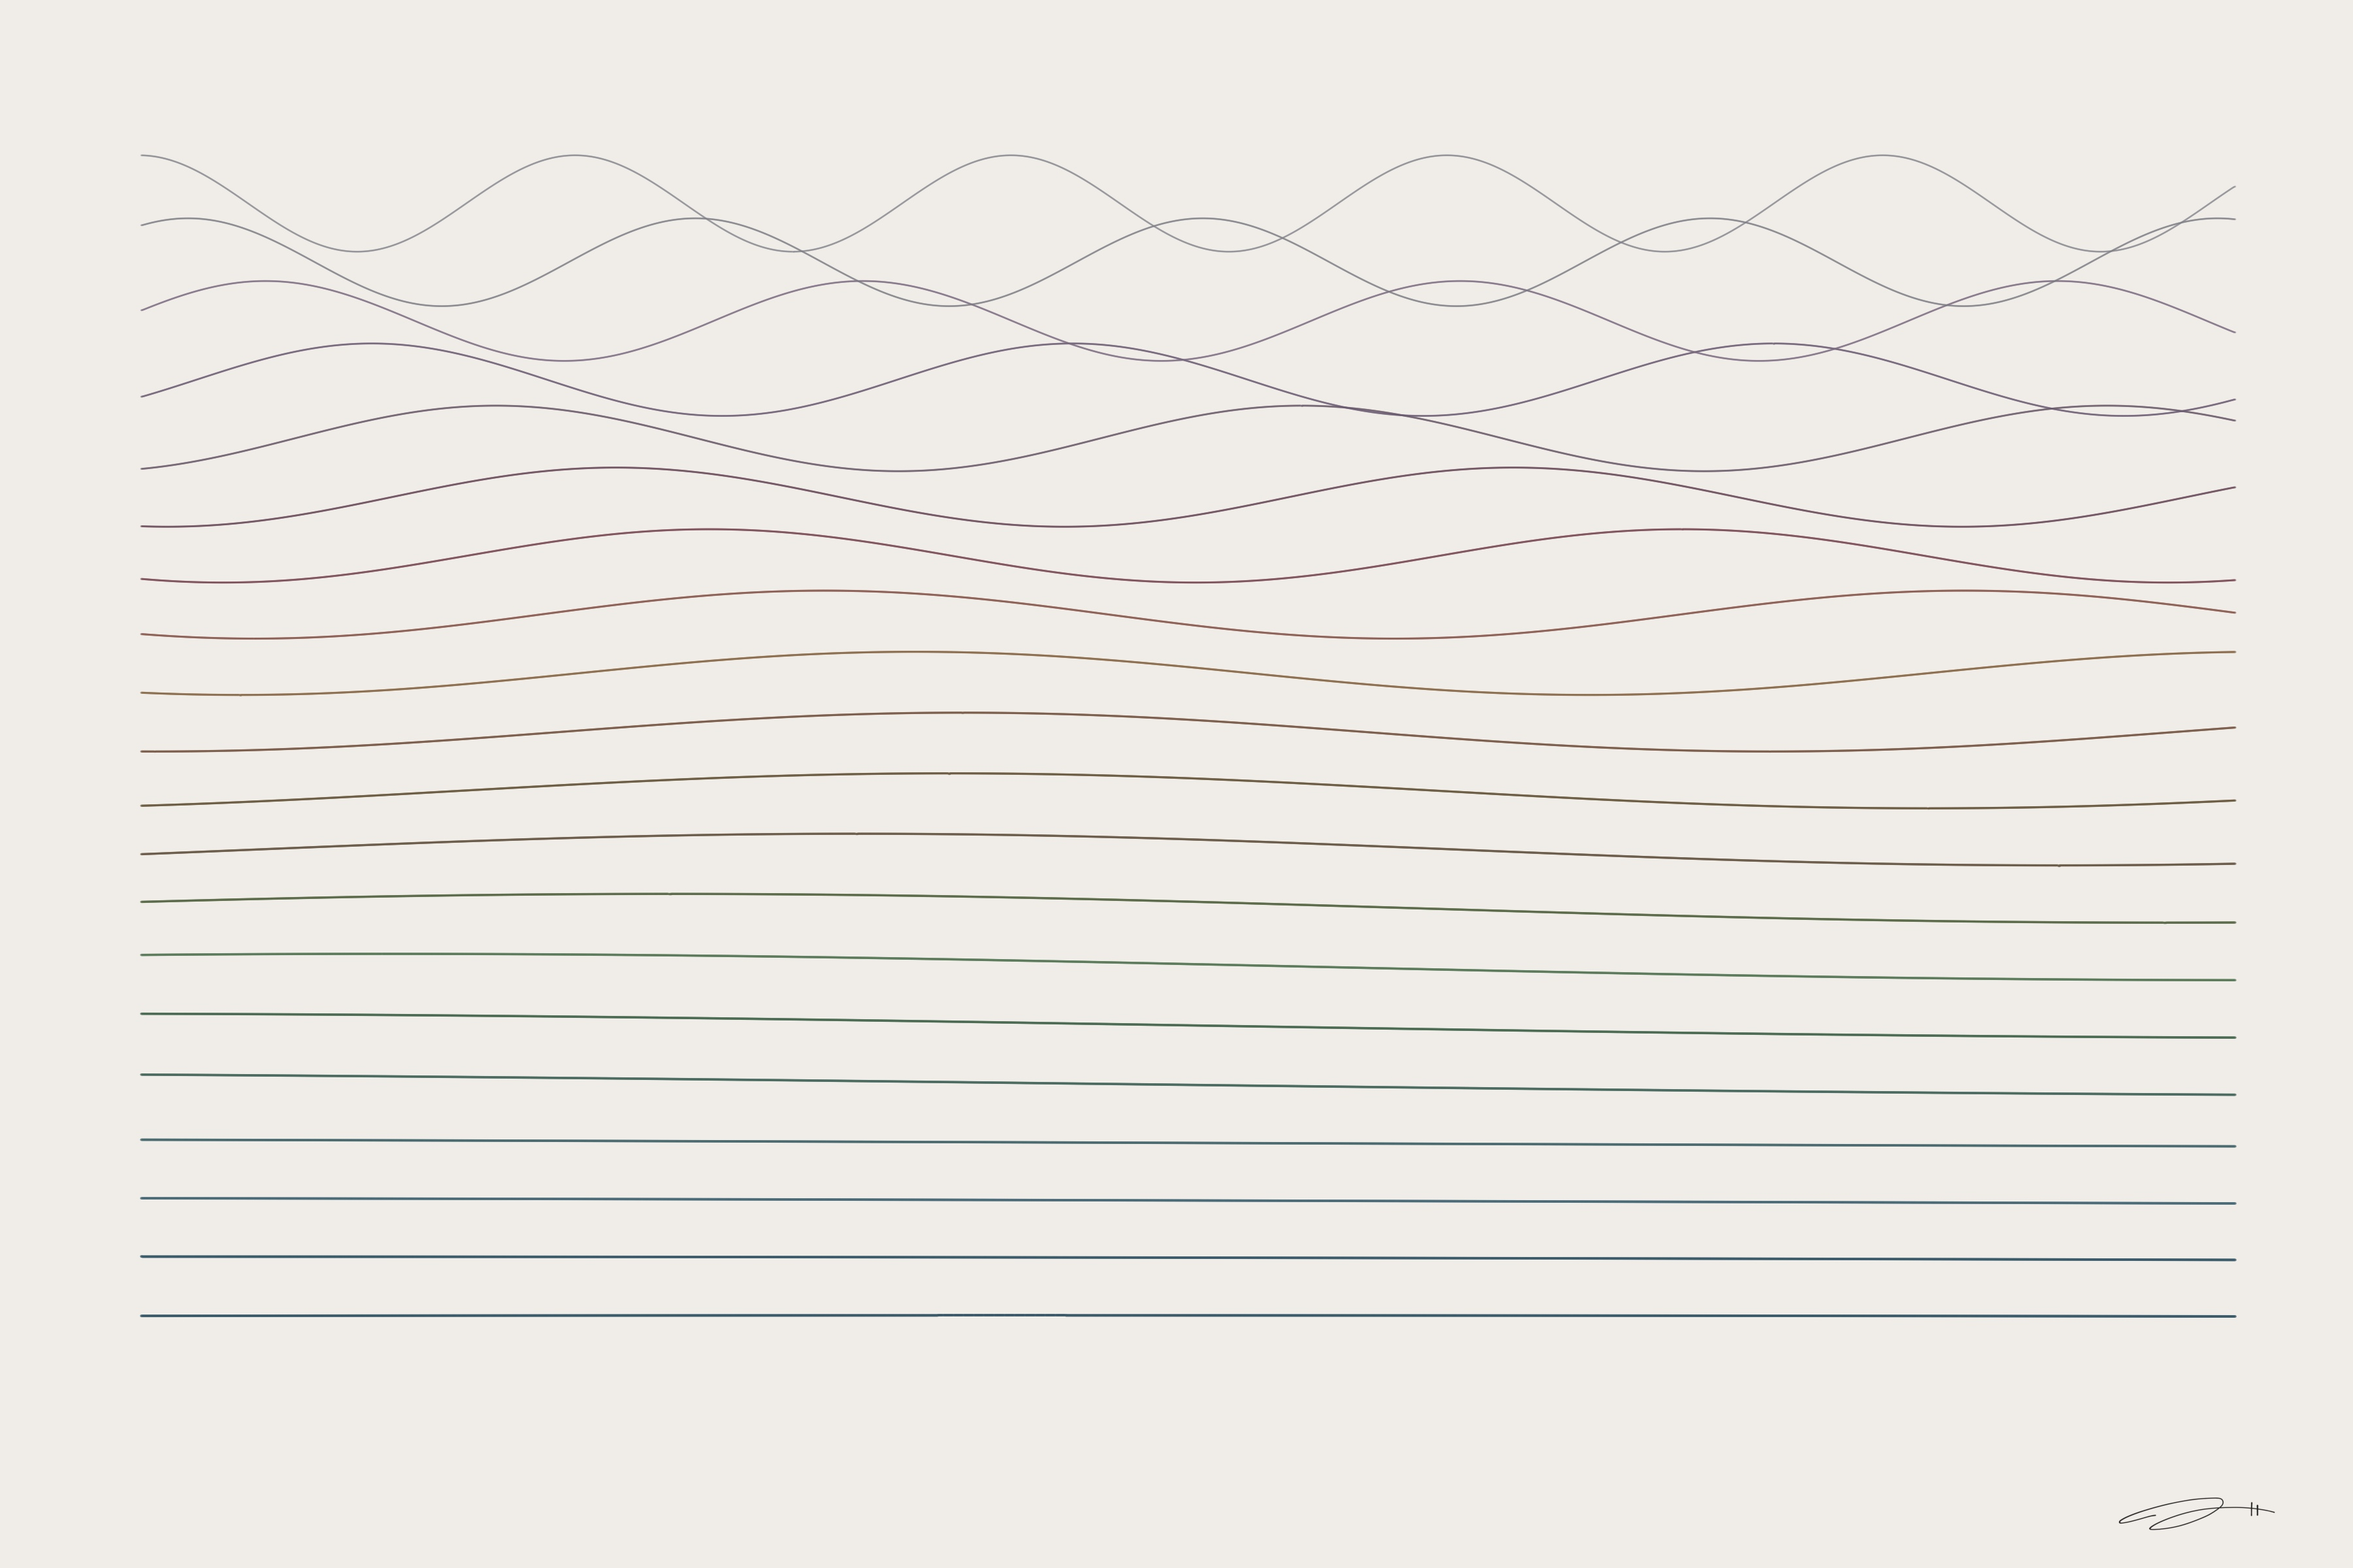
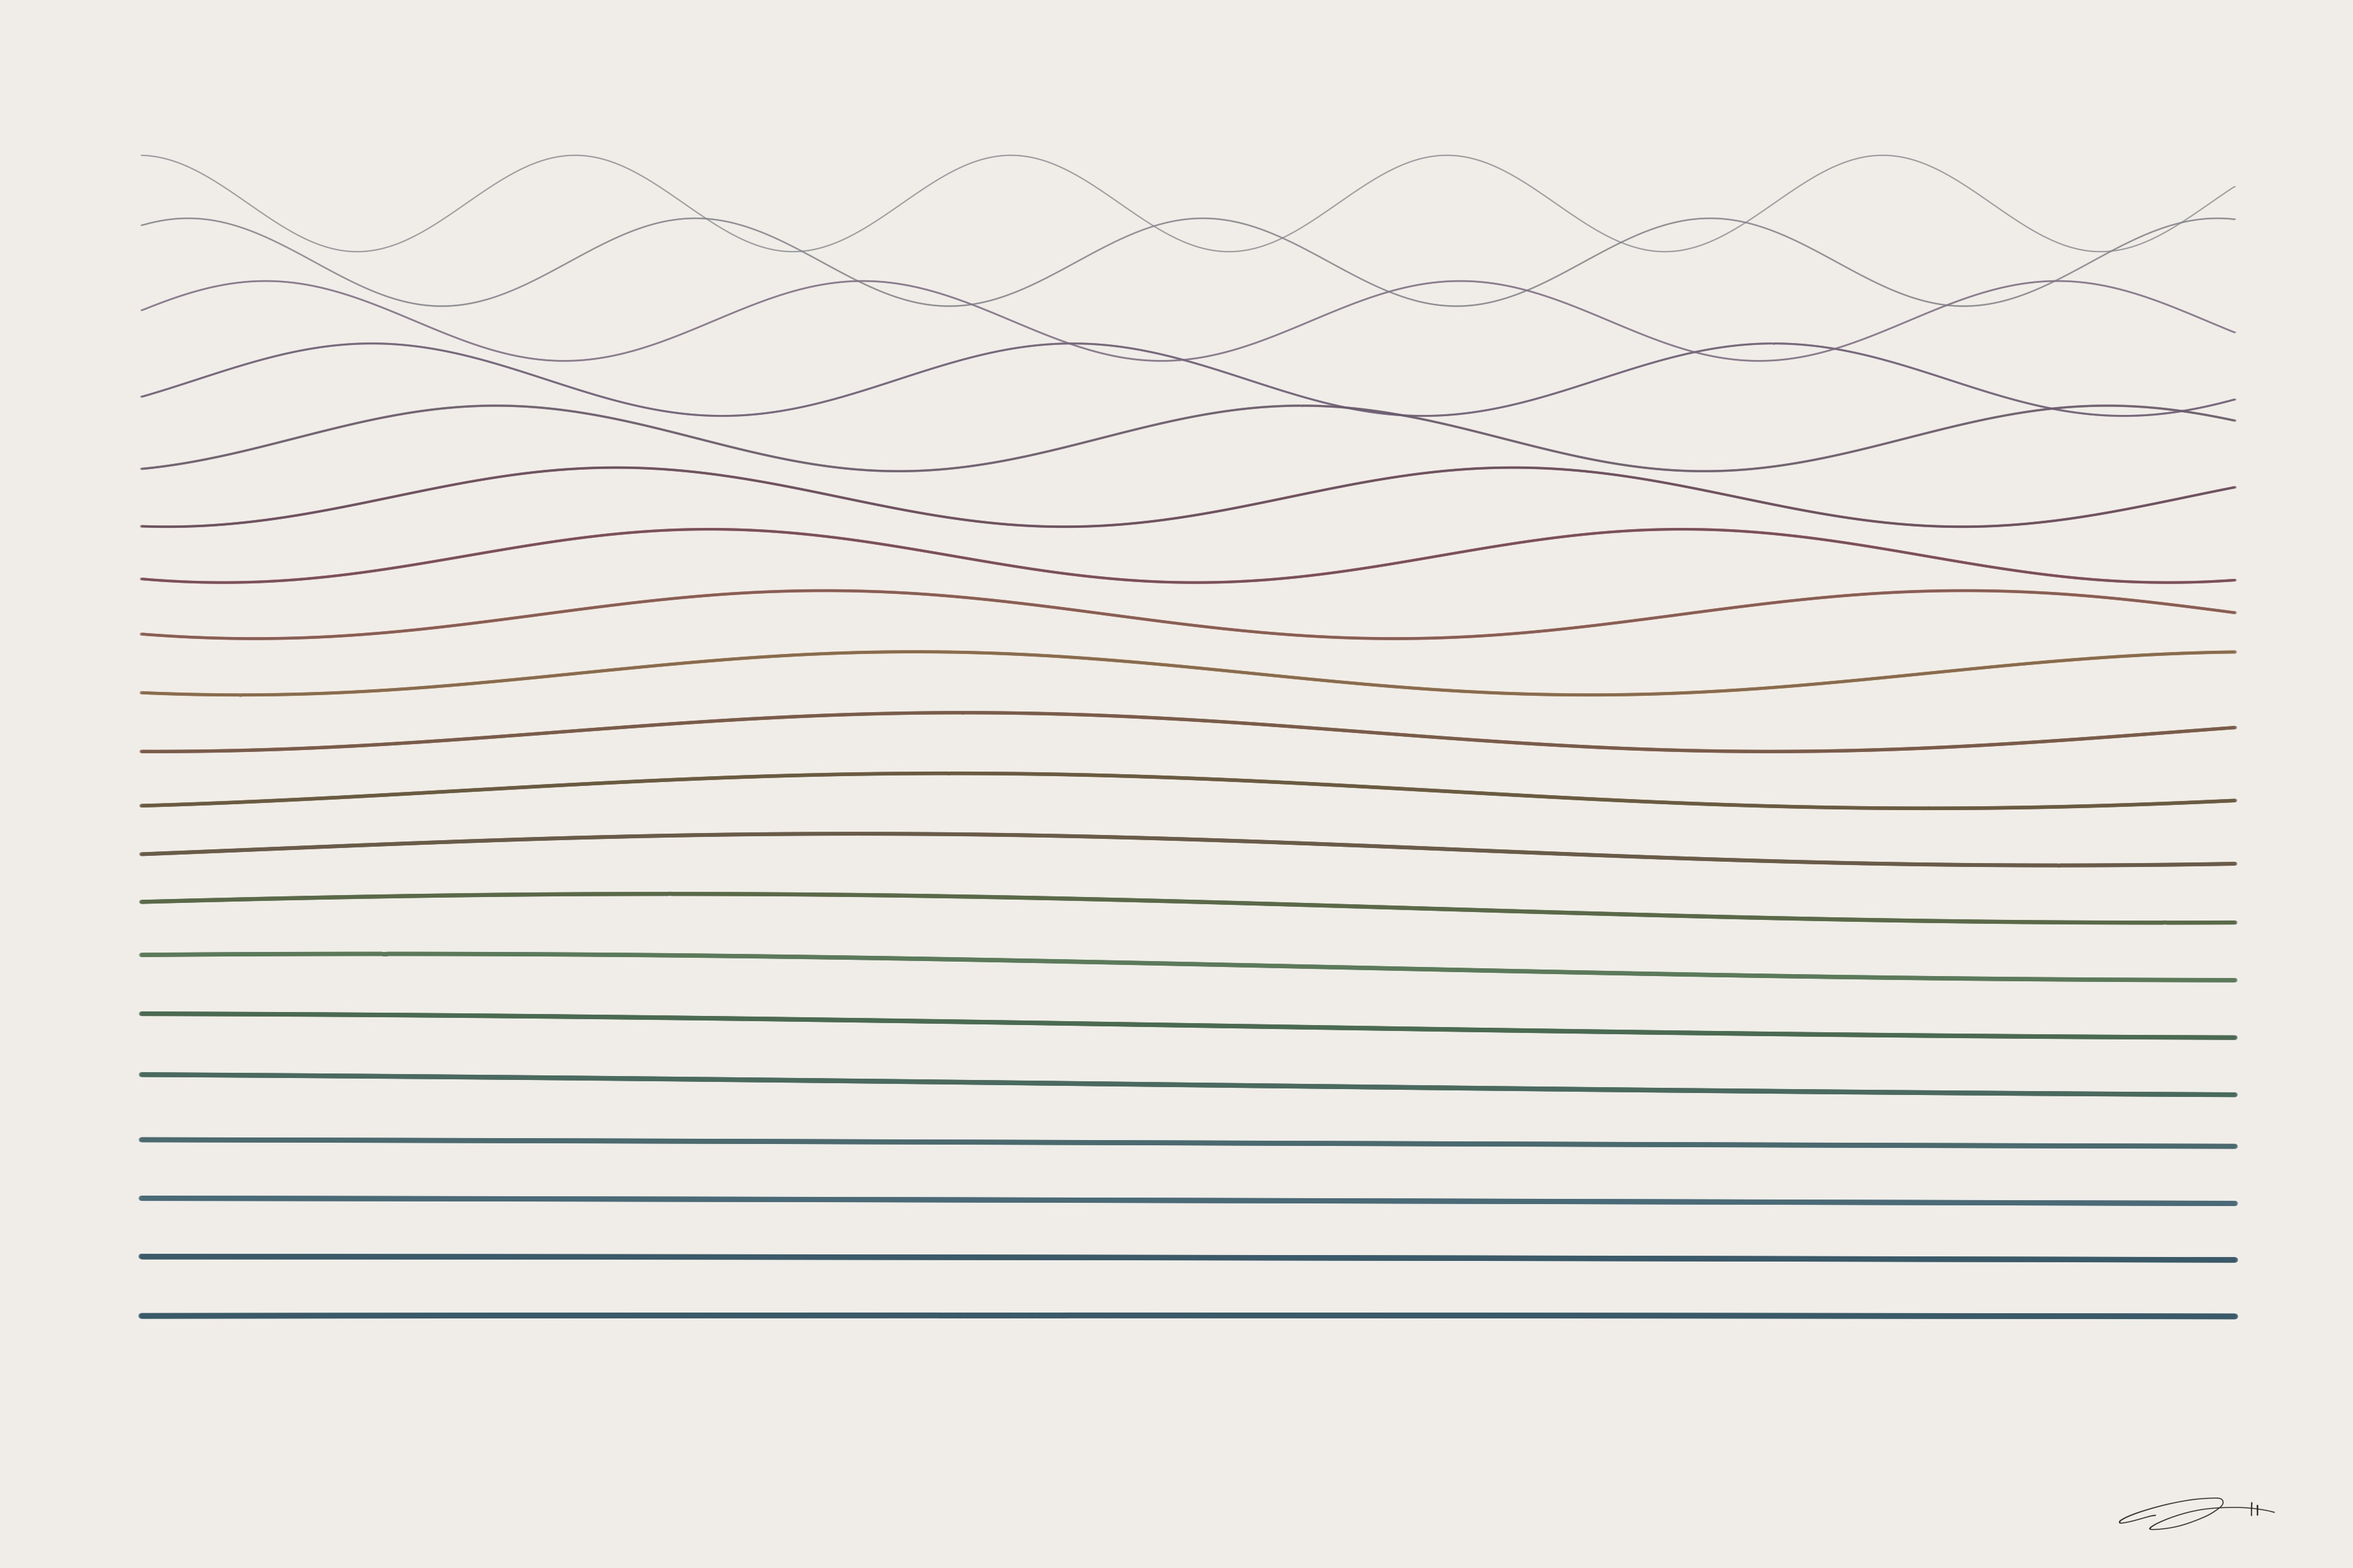
Update Peace Harmonic: thicker bottom lines, wispy top for grounded settling

diff --git a/mathematical_affect/pieces/peace/peace_harmonic.py b/mathematical_affect/pieces/peace/peace_harmonic.py
@@ -11,7 +11,7 @@ import matplotlib
 import sys as _sys; import os as _os
 _sys.path.insert(0, _os.path.join(_os.path.dirname(_os.path.abspath(__file__)), ".."))
 from signature_utils import add_signature
-matplotlib.use('Agg')
+#matplotlib.use('Agg')
 import matplotlib.pyplot as plt
 import matplotlib.collections as mc
 from scipy.ndimage import gaussian_filter1d
@@ -93,7 +93,7 @@ def save(fig, name):
     fig.savefig(jpg_path, facecolor=BG, dpi=DPI, format='jpg',
                 pil_kwargs={"quality": 96})
     print(f'saved {jpg_path}')
-    plt.close(fig)
+    # plt.close(fig)
 
 
 def render():
@@ -158,7 +158,7 @@ def render():
         # LINE WEIGHT: bottom slightly heavier (grounded), top
         # slightly thinner (atmospheric). Subtle.
         # -----------------------------------------------------------
-        lw = 0.95 - frac * 0.32  # 0.95 → 0.63
+        lw = 2.10 - frac * 1.6
 
         # -----------------------------------------------------------
         # ALPHA: bottom more present, top more atmospheric.
